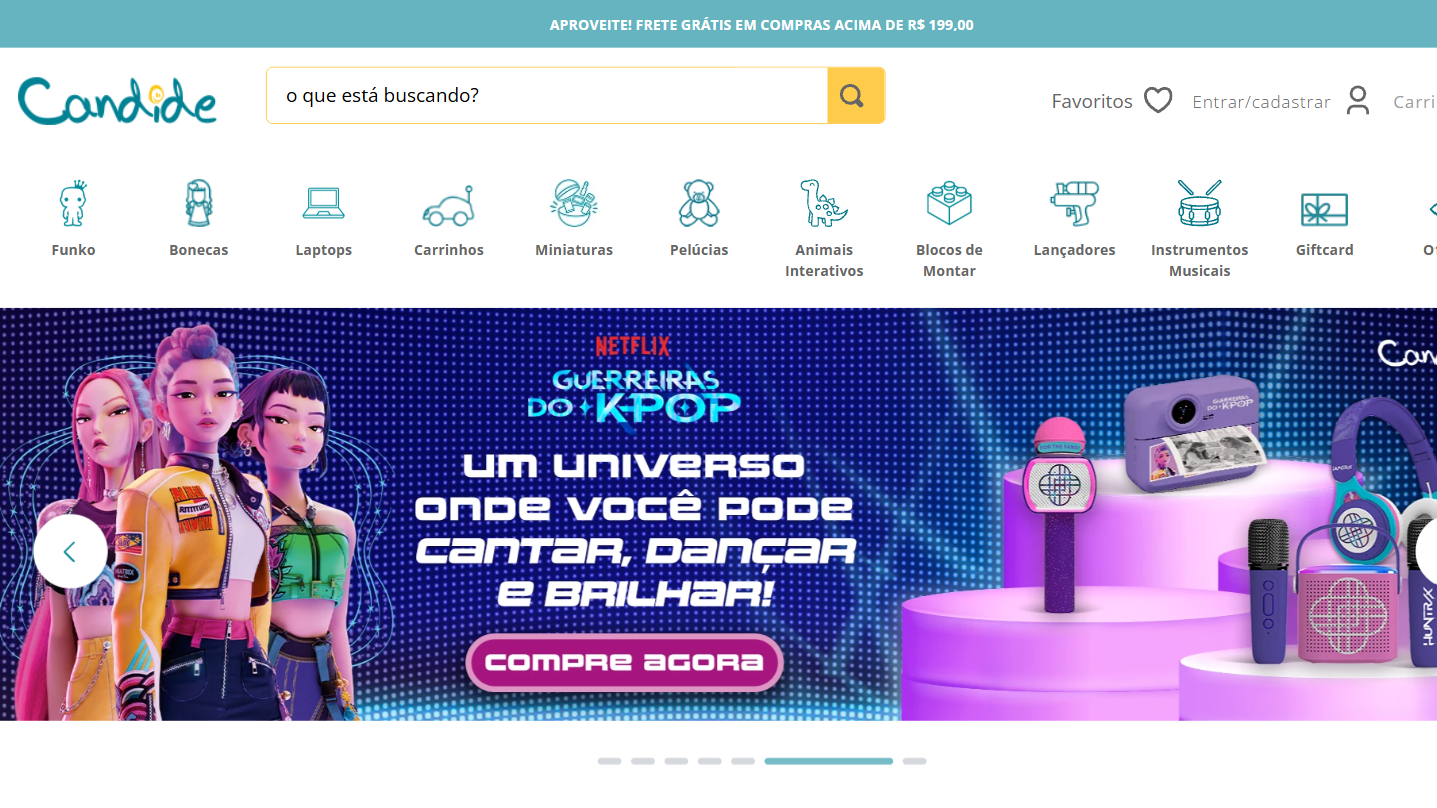
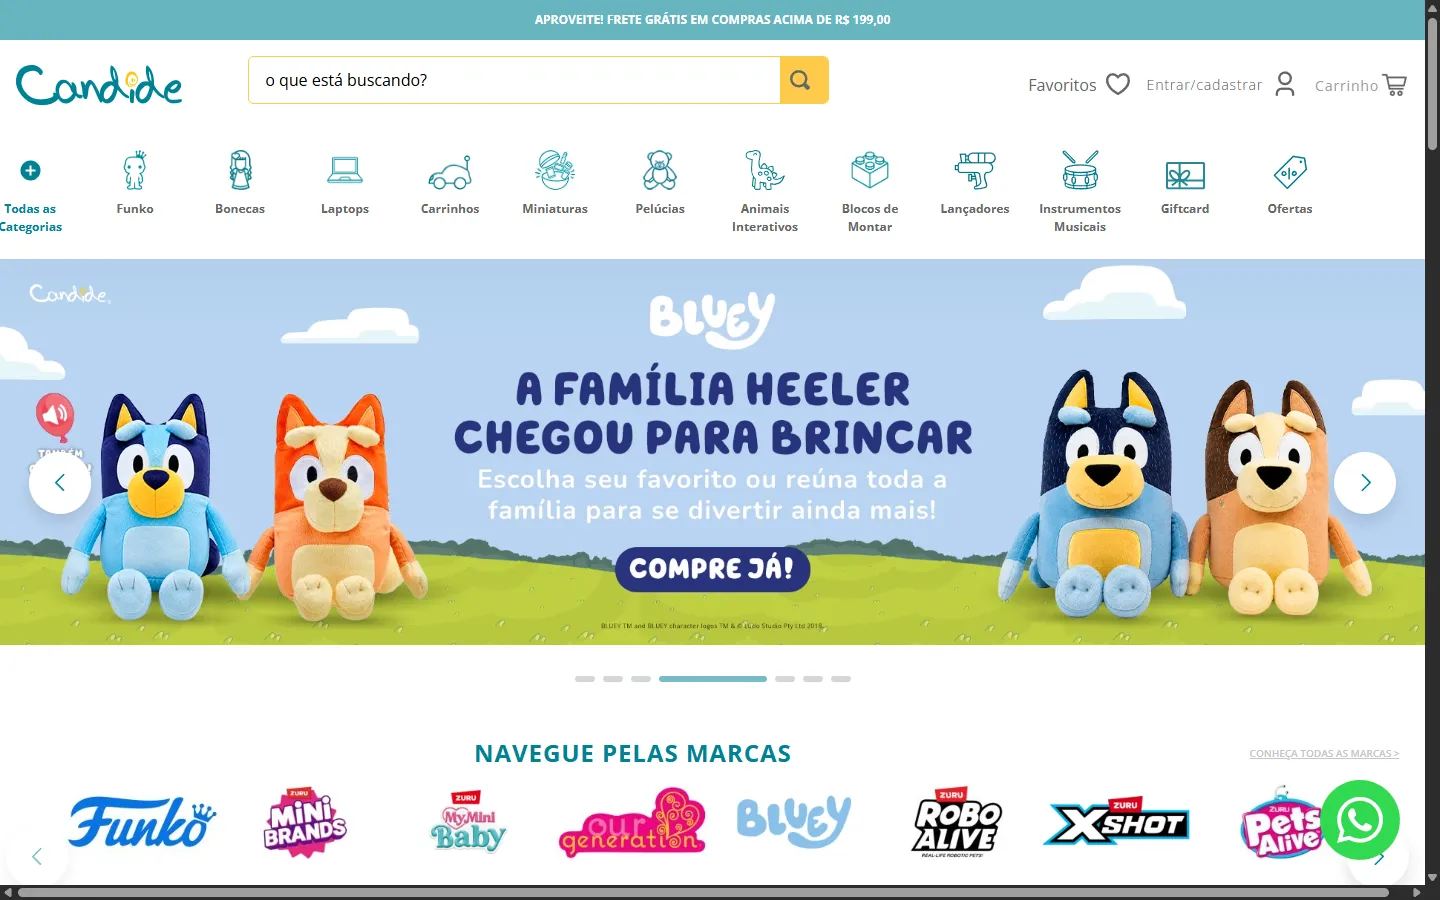
feat: adjust profhero profile description

diff --git a/data/profile.ts b/data/profile.ts
@@ -7,9 +7,18 @@ export const profile = {
     en: "Front-end Developer",
   },
   bio: {
-    pt: "Texto de exemplo: desenvolvo interfaces web acessíveis e rápidas com React, Next.js e TypeScript. Substitua este parágrafo por uma apresentação real.",
-    en: "Sample text: I build accessible, fast web interfaces with React, Next.js and TypeScript. Replace this paragraph with a real introduction.",
+    pt: "Engenheira de software especializada em transformar ideias em produtos confiáveis e centrados no usuário.",
+    en: "I'm a Software Engineer who enjoys turning ideas into reliable and user-centered products.",
   },
+  focus: {
+    pt: "Tenho interesse especial em",
+    en: "I'm particularly interested in",
+  },
+  interests: [
+    { pt: "IA", en: "AI" },
+    { pt: "performance", en: "performance" },
+    { pt: "engenharia de produto", en: "product engineering" },
+  ],
   email: "roberta.amaro89@gmail.com",
   linkedinUrl: "https://linkedin.com/in/roberta-amaro",
   githubUrl: "https://github.com/robs-am",

diff --git a/components/Hero.tsx b/components/Hero.tsx
@@ -23,8 +23,18 @@ export async function Hero({ locale }: { locale: Locale }) {
       <p className="mt-3 text-sm font-semibold tracking-wide text-foreground uppercase">
         {localize(profile.role, locale)}
       </p>
-      <p className="mt-8 max-w-2xl leading-7 text-foreground/90">
+      <p className="mt-8 max-w-2xl text-pretty leading-7 text-foreground/90">
         {localize(profile.bio, locale)}
+      </p>
+      <p className="mt-2 max-w-2xl text-pretty leading-7 text-foreground/90">
+        {localize(profile.focus, locale)}{" "}
+        {profile.interests.map((interest, index) => (
+          <span key={localize(interest, locale)}>
+            {index > 0 && (index === profile.interests.length - 1 ? ` ${t("and")} ` : ", ")}
+            <span className="font-semibold text-highlight">{localize(interest, locale)}</span>
+          </span>
+        ))}
+        .
       </p>
       {links.length > 0 && (
         <ul className="mt-6 flex gap-2">

diff --git a/app/globals.css b/app/globals.css
@@ -14,6 +14,8 @@
   --glow-1: #7eb3c1;
   --glow-2: #7cc0f0;
   --glow-opacity: 0.8;
+  /* Teal accent tuned to clear AA over the glow's worst point (unlike --accent, which fails there); see docs/design-system.md. */
+  --highlight: #1c4750;
   --duration-reveal: 600ms;
   --reveal-stagger: 80ms;
   --reveal-distance: 16px;
@@ -39,6 +41,7 @@
   --glow-2: #2f8fe0;
   /* Hero text over the glow uses --foreground (not muted/accent) specifically so this can stay vivid; see docs/design-system.md. */
   --glow-opacity: 0.5;
+  --highlight: #c9ecf5;
 }
 
 @theme inline {
@@ -52,6 +55,7 @@
   --color-border: var(--border);
   --color-glow-1: var(--glow-1);
   --color-glow-2: var(--glow-2);
+  --color-highlight: var(--highlight);
   --font-sans: var(--font-plex-sans), ui-sans-serif, system-ui, sans-serif;
   --font-display: var(--font-jost), ui-sans-serif, system-ui, sans-serif;
   --ease-expressive: cubic-bezier(0.2, 0, 0, 1);

diff --git a/data/projects.ts b/data/projects.ts
@@ -72,11 +72,11 @@ export const projects = [
     demoUrl: "https://www.candide.com.br",
     image: {
       src: "/projects/candide.webp",
-      width: 1437,
-      height: 808,
+      width: 1440,
+      height: 900,
       alt: {
-        pt: "Página inicial do e-commerce da Candide, com menu de categorias de brinquedos (Funko, Bonecas, Carrinhos, Blocos de Montar) e banner da linha Guerreiras do K-Pop, da Netflix",
-        en: "Candide e-commerce home page, with a toy category menu (Funko, Dolls, Toy Cars, Building Blocks) and a banner for Netflix's KPop Demon Hunters toy line",
+        pt: "Página inicial do e-commerce da Candide, com menu de categorias de brinquedos e banner da linha Bluey, com as pelúcias da família Heeler",
+        en: "Candide e-commerce home page, with a toy category menu and a banner for the Bluey line, featuring plush toys of the Heeler family",
       },
     },
   },

diff --git a/data/types.ts b/data/types.ts
@@ -8,6 +8,10 @@ export type Profile = {
   name: string;
   role: Localized;
   bio: Localized;
+  /** Lead-in text for the second bio line, ending right before the interest list (no trailing space or punctuation). */
+  focus: Localized;
+  /** Highlighted interest terms, rendered as a comma/"and" list after `focus`. */
+  interests: Localized[];
   email?: string;
   linkedinUrl?: string;
   githubUrl?: string;

diff --git a/openspec/changes/portfolio-mvp/tasks.md b/openspec/changes/portfolio-mvp/tasks.md
@@ -43,7 +43,9 @@
 - [x] 5.4 Criar `components/ExperienceSection.tsx` como timeline vertical (linha, ponto em `--accent`, período, cargo em Jost, empresa, descrição), com ordenação por data decrescente, datas formatadas por idioma e "Atual"/"Present"; verificar em `/pt` e `/en` a ordem, o formato das datas e o término da experiência atual, e que a timeline não gera rolagem horizontal em 360px
 - [x] 5.5 Criar `data/projects.ts` com pelo menos 3 projetos fictícios com `category`, cobrindo: com repo e demo, só com repo, com imagem e sem imagem (imagem em `public/projects/`); verificar com `pnpm exec tsc --noEmit`
 - [x] 5.6 Criar `components/ProjectCard.tsx` vertical (painel `aspect-video` com imagem ou fundo decorativo `aria-hidden`, pill com `category`, título em Jost, descrição, tecnologias, primeiro link disponível como botão em `--accent` e o outro como link de texto, `target="_blank" rel="noopener noreferrer"`) e `components/ProjectsSection.tsx` (grade 1/2/3 colunas); verificar que o card sem imagem tem painel decorativo da mesma altura e sem conteúdo para leitor de tela, e que o card sem demo mostra só o repositório como botão
-- [ ] 5.7 (pendência) Adicionar links de contato (e-mail, LinkedIn, GitHub) e/ou botão de CV no hero; aguardando Roberta definir os dados reais (endereços, URLs, arquivo de CV) antes de implementar
+- [x] 5.7 Adicionar links de contato (e-mail, LinkedIn, GitHub) no hero, com ícone em stroke (Tabler Icons) e rótulo acessível; botão de CV fica de fora por enquanto (sem arquivo definido)
+- [x] 5.8 Escrever o conteúdo real do hero (`data/profile.ts`): cargo e bio de verdade no lugar do texto de exemplo, em `pt` e `en`; verificar que o texto muda entre os dois idiomas
+- [ ] 5.9 (pendência) Escrever a descrição real de cada projeto (`data/projects.ts`): o que a Roberta especificamente fez em cada um (Tommy Hilfiger, Liritty, Candide, Creamy, Skelt), no lugar do lorem ipsum, em `pt` e `en`; verificar com `pnpm exec tsc --noEmit` e que a truncagem (`ver mais`) do `ProjectDescription` continua funcionando com o texto novo
 
 ## 6. Animações
 
